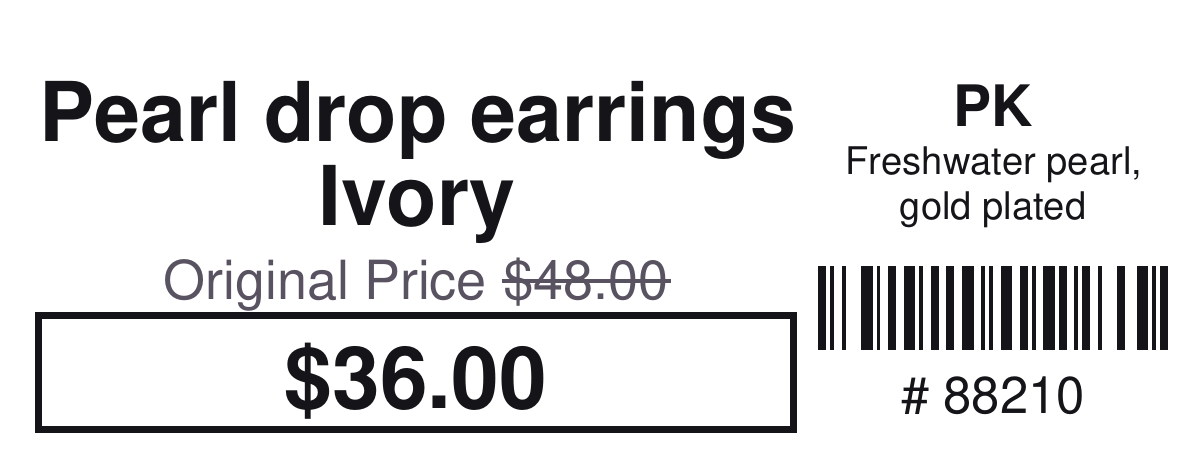
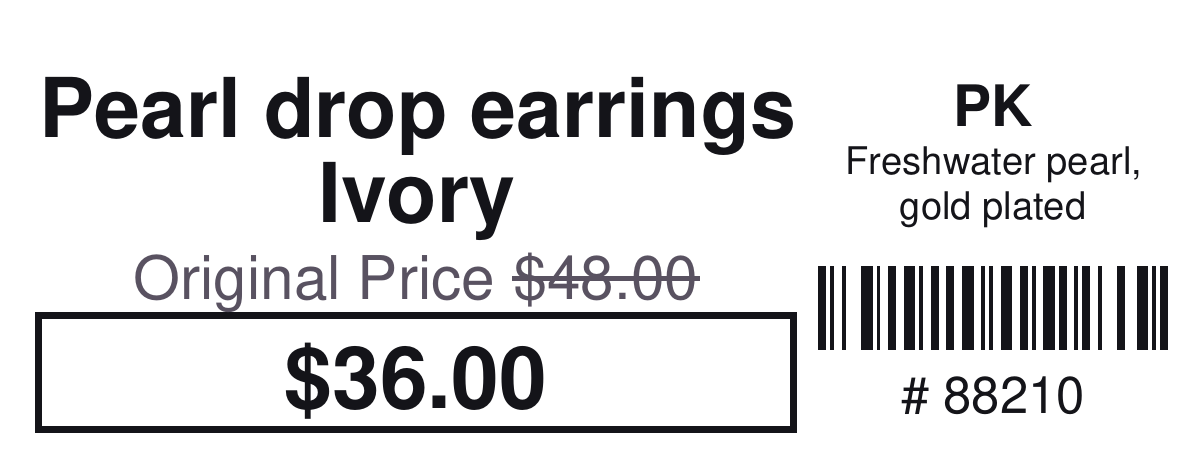
Mass Labeling: sheet Description fallback reaches shoe and jewelry tags; shoe name spacing; larger Original Price

diff --git a/src/labels/draw-label.ts b/src/labels/draw-label.ts
@@ -196,7 +196,8 @@ function hasDistinctOriginalPrice(payload: LabelPayload): boolean {
 const PRICE_BOX_H = 18
 /** Slightly shorter sale box on shoe stock so name / color / size can grow. */
 const PRICE_BOX_H_STOCK = 15.5
-const ORIG_PRICE_SIZE = 8.5
+const ORIG_PRICE_SIZE = 9.5
+const ORIG_PRICE_MIN = 8.5
 /** Right-column space above the barcode. Do not change — barcode height depends on this. */
 const BARCODE_TOP_RESERVE_H = 28
 /** Store code (PLM / PK) — shared size so dress matches shoes and jewelry. */
@@ -204,7 +205,7 @@ const LOCATION_SIZE = 9
 const ORIG_PRICE_GAP = 2.5
 
 function originalPriceBlockHeight(): number {
-  return ORIG_PRICE_SIZE + 2
+  return ORIG_PRICE_SIZE + 1.5
 }
 
 /**
@@ -227,12 +228,18 @@ function drawOriginalPriceBlock(
   }
   const amount = originalPriceAmount(payload)
 
-  const caption = 'Original Price '
+  let caption = 'Original Price '
   let usedSize = ORIG_PRICE_SIZE
   const fits = (size: number) =>
     fonts.regular.widthOfTextAtSize(caption, size) + fonts.regular.widthOfTextAtSize(amount, size) <= w
-  while (usedSize > 6.5 && !fits(usedSize)) {
+  while (usedSize > ORIG_PRICE_MIN && !fits(usedSize)) {
     usedSize -= 0.25
+  }
+  /* Too narrow for a readable full caption: keep the size and say "Original". */
+  if (!fits(usedSize)) {
+    caption = 'Original '
+    usedSize = ORIG_PRICE_SIZE
+    while (usedSize > 6.5 && !fits(usedSize)) usedSize -= 0.25
   }
   const captionW = fonts.regular.widthOfTextAtSize(caption, usedSize)
   const amountW = fonts.regular.widthOfTextAtSize(amount, usedSize)
@@ -668,7 +675,8 @@ function drawShoesTag(
   const pad = 2.5
   const priceBoxX = x + pad
   const priceBoxW = leftW - pad * 2
-  const priceBoxH = PRICE_BOX_H
+  /* A little shorter sale box when Original Price shows, so the name keeps its size. */
+  const priceBoxH = hasDistinctOriginalPrice(payload) ? PRICE_BOX_H - 1.5 : PRICE_BOX_H
   const priceBoxY = y + pad
 
   drawPriceBox(page, fonts, saleLabel(payload), priceBoxX, priceBoxY, priceBoxW, priceBoxH)
@@ -688,12 +696,18 @@ function drawShoesTag(
   const descText = shoeDescription(payload, nameText)
   const sizeColorText = [sizeText, colorText].filter(Boolean).join(' · ')
 
-  const sizeColorSize = 12
-  const nameSize = maxSizeForWidth(fonts.bold, nameText, priceBoxW, 15, 9.5)
-  const nameLineH = nameSize + 1.6
   const nameCeiling = y + h - pad
-  const sizeColorBaseline = origTop + 3.5
-  const nameFloorMin = sizeColorBaseline + sizeColorSize + 2
+  /* Keep size / color and the name from touching when Original Price takes room. */
+  const tight = nameCeiling - (origTop + 3.5) < 33
+  const sizeColorBaseline = origTop + (tight ? 2 : 3.5)
+  const sizeColorSize = tight ? 10 : 12
+  const nameFloorMin = sizeColorBaseline + sizeColorSize + (tight ? 1.5 : 2)
+  const nameRoom = nameCeiling - nameFloorMin
+  const nameSize = Math.min(
+    maxSizeForWidth(fonts.bold, nameText, priceBoxW, 15, 9.5),
+    Math.max(9.5, nameRoom - 0.5),
+  )
+  const nameLineH = nameSize + 1.6
   const nameH = Math.max(8, Math.min(nameLineH * 2, nameCeiling - nameFloorMin))
   const nameFloor = nameCeiling - nameH
   const nameMaxLines =

diff --git a/src/labels/enrich.ts b/src/labels/enrich.ts
@@ -174,7 +174,7 @@ export function enrichFromCatalog(
     itemNumber,
     style: line.style ?? match?.style ?? 'Unknown style',
     itemName,
-    description: (match?.description ?? '').trim(),
+    description: (match?.description ?? '').trim() || (line.description ?? '').trim(),
     vendor: match?.vendor ?? 'Unknown vendor',
     department,
     size,

diff --git a/src/api/types.ts b/src/api/types.ts
@@ -34,6 +34,8 @@ export type LabelLineItem = {
   department?: Department
   retailPrice?: number
   salePrice?: number
+  /** Spreadsheet Description, then Long Description. Used when BridalLive's is empty. */
+  description?: string
   /** Per-line layout (reprint shoe tag vs shoe stock). Wins over the batch design picker. */
   styleLayoutId?: string
 }

diff --git a/src/labels/mass-expand.ts b/src/labels/mass-expand.ts
@@ -133,6 +133,7 @@ export function expandSpreadsheetRowsToLabelLines(
         department: departmentFromRow(row),
         retailPrice: row.retailPrice ?? undefined,
         salePrice: row.salePrice ?? undefined,
+        description: massDescription(row) || undefined,
       }
     })
 }
